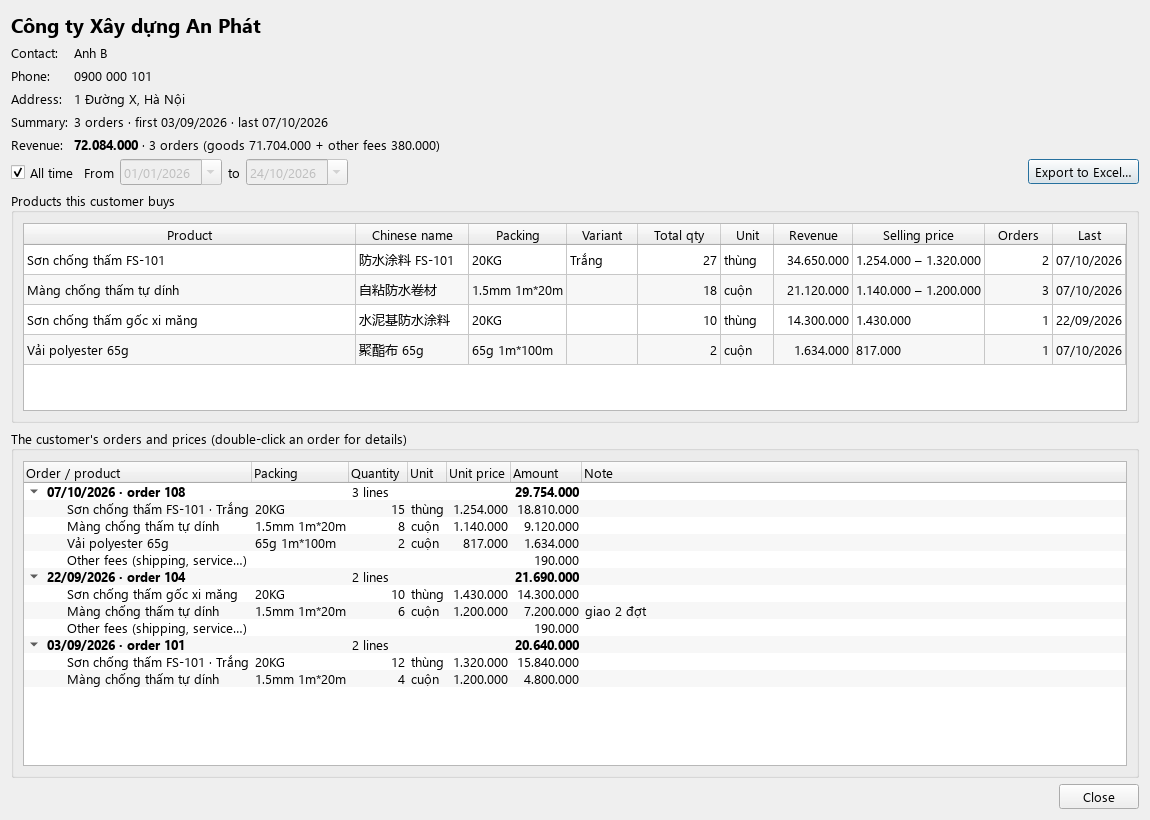
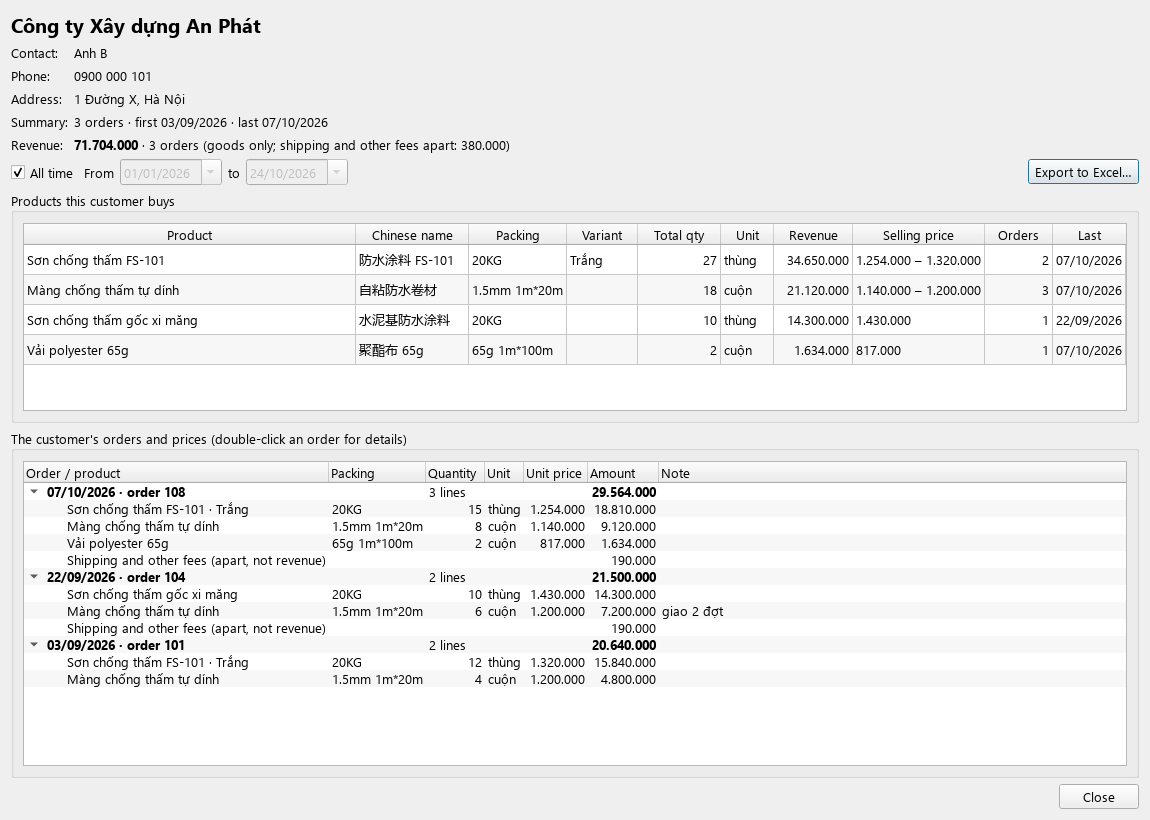
Revenue counts the goods only: shipping and other fees are shown apart (customer, statistics, Excel files, order list)

diff --git a/tests/test_locations.py b/tests/test_locations.py
@@ -257,7 +257,7 @@ def test_period_revenue_matches_the_customer_window(conn, ws):
     a, b = two_notes(conn, ws)
     start, end = date(2026, 10, 1), date(2026, 10, 31)
     m = stats.money(conn, start, end)
-    assert (m.orders, m.goods, m.fees, m.total) == (2, 5500000, 190000, 5690000)
+    assert (m.orders, m.goods, m.fees, m.total) == (2, 5500000, 190000, 5500000)  # revenue = goods; shipping apart
     cust = doc(conn, "1")["customer_id"]
     cm = queries.customer_money(conn, cust, start, end)
     assert stats.money(conn, start, end, stats.Filters(customer_ids=[cust])).total == cm["total"]
@@ -267,7 +267,7 @@ def test_period_revenue_matches_the_customer_window(conn, ws):
     assert rows == {a: 4200000, b: 1300000}
     with db.transaction(conn):
         close_document(conn, doc(conn, "2")["id"])
-    assert stats.money(conn, start, end).total == 3590000  # cancelled orders are no revenue
+    assert stats.money(conn, start, end).total == 3400000  # cancelled orders are no revenue
 
 
 def test_details_sheet_keeps_two_prices_of_one_product_on_one_note(conn, ws):
@@ -287,7 +287,7 @@ def test_statistics_file_has_money_places_and_notes(conn, ws, tmp_path):
                          set(report.SHEETS), "10/2026", "Tất cả")
     wb = openpyxl.load_workbook(path)
     text = " ".join(str(c.value) for s in wb.worksheets for row in s.iter_rows() for c in row if c.value)
-    assert "5.690.000" in text and "1 thùng hết hạn" in text and "Kho tổng" in text
+    assert "5.500.000" in text and "190.000" in text and "1 thùng hết hạn" in text and "Kho tổng" in text
     summary = wb.worksheets[0]
     head = [c.value for c in summary[6]]
     revenue = [r[head.index("Doanh thu")] for r in summary.iter_rows(min_row=7, values_only=True)]
@@ -302,8 +302,8 @@ def test_customer_file_lists_each_order_with_its_prices(conn, ws, tmp_path):
     wb = openpyxl.load_workbook(path)
     orders = [r for r in wb.worksheets[0].iter_rows(min_row=7, values_only=True)]
     assert [(r[1], r[3], r[10]) for r in orders] == [
-        ("1", "vữa chống thấm", 2100000), ("1", "chất cố định cát", 1300000), ("1", i18n.t("cust.fees"), 190000),
-        ("1", "Tổng tiền đơn", 3590000)]  # order 2 is after the period
+        ("1", "vữa chống thấm", 2100000), ("1", "chất cố định cát", 1300000), ("1", "Tiền hàng của đơn", 3400000),
+        ("1", i18n.t("cust.fees"), 190000)]  # fees apart, after the goods; order 2 is after the period
     products = list(wb.worksheets[1].iter_rows(min_row=7, values_only=True))
     assert len(products) == 2 and {p[7] for p in products} == {2100000, 1300000}
 

diff --git a/src/dibekho/core/queries.py b/src/dibekho/core/queries.py
@@ -10,7 +10,8 @@ def _iso(d: date | None) -> str | None:
 
 
 # Money of one delivery note (alias d), as correlated subqueries so joins with its lines never multiply it.
-# order total = goods (sum of line amounts) + fees; NULL when the note has no price at all.
+# order total = goods (sum of line amounts) + fees, as printed on the note; NULL when the note has no price.
+# Revenue counts the goods only: shipping and other fees are shown apart (the user's rule, 24/10/2026).
 _GOODS = "(SELECT SUM(x.amount) FROM document_lines x WHERE x.document_id = d.id)"
 _UNPRICED = "(SELECT COUNT(*) FROM document_lines x WHERE x.document_id = d.id AND x.amount IS NULL)"
 _TOTAL = f"(CASE WHEN {_GOODS} IS NULL AND d.fee_amount IS NULL THEN NULL " \
@@ -111,7 +112,7 @@ def customers(conn, text=""):
     return conn.execute(
         f"""
         SELECT c.*, COUNT(d.id) AS order_count, MIN(d.doc_date) AS first_order, MAX(d.doc_date) AS last_order,
-               SUM({_TOTAL}) AS revenue
+               SUM({_GOODS}) AS revenue
         FROM customers c
         LEFT JOIN documents d ON d.customer_id = c.id AND d.kind = 'delivery' AND d.status = 'active'
         {where}
@@ -135,13 +136,13 @@ def customer(conn, customer_id: int):
 
 
 def customer_money(conn, customer_id: int, date_from: date | None = None, date_to: date | None = None):
-    """Orders, goods, fees and total (revenue) of a customer in a period; unpriced = orders with a line
+    """Orders, goods, fees and revenue ('total' = goods only; fees apart) of a customer in a period; unpriced = orders with a line
     whose price is unknown (their known lines still count)."""
     where, args = ["d.customer_id = ?", "d.kind = 'delivery'", "d.status = 'active'"], [customer_id]
     _period(where, args, date_from, date_to)
     return conn.execute(
         f"""
-        SELECT COUNT(*) AS orders, SUM({_GOODS}) AS goods, SUM(d.fee_amount) AS fees, SUM({_TOTAL}) AS total,
+        SELECT COUNT(*) AS orders, SUM({_GOODS}) AS goods, SUM(d.fee_amount) AS fees, SUM({_GOODS}) AS total,
                SUM(CASE WHEN {_UNPRICED} > 0 THEN 1 ELSE 0 END) AS unpriced
         FROM documents d WHERE {' AND '.join(where)}
         """,

diff --git a/tests/test_prices.py b/tests/test_prices.py
@@ -69,14 +69,14 @@ def test_revenue_per_customer_products_and_period(conn, ws):
     known(conn, ws)
     cust = doc(conn, "1")["customer_id"]
     money = queries.customer_money(conn, cust)
-    assert (money["orders"], money["goods"], money["fees"], money["total"]) == (2, 5650000, 190000, 5840000)
+    assert (money["orders"], money["goods"], money["fees"], money["total"]) == (2, 5650000, 190000, 5650000)  # revenue = goods, fees apart
     paint = {p["name_vi"]: p for p in queries.customer_products(conn, cust)}["vữa chống thấm"]
     assert (paint["total_qty"], paint["revenue"], paint["min_price"], paint["max_price"]) == (6, 4350000, 700000, 750000)
     october = queries.customer_lines(conn, cust, date(2026, 10, 1), date(2026, 10, 31))
     assert [(ln["code"], ln["unit_price"], ln["amount"]) for ln in october] == [("2", 750000, 2250000)]
     assert queries.customer_money(conn, cust, date(2026, 10, 1), date(2026, 10, 31))["total"] == 2250000
     by_name = {c["name"]: c["revenue"] for c in queries.customers(conn)}
-    assert by_name == {"Công ty A": 5840000, "Công ty B": 2100000}
+    assert by_name == {"Công ty A": 5650000, "Công ty B": 2100000}
 
 
 def test_cancelled_orders_and_unknown_prices_are_not_revenue(conn, ws):
@@ -198,7 +198,7 @@ def test_customer_window_lists_orders_with_their_prices(qtbot_free_app, ws):
     known(ctx.conn, ws)
     cust = doc(ctx.conn, "1")["customer_id"]
     dlg = CustomerDialog(ctx, cust)
-    assert "5.840.000" in dlg.money.text()
+    assert "5.650.000" in dlg.money.text() and "190.000" in dlg.money.text()
     tree = dlg.orders
     assert tree.topLevelItemCount() == 2
     newest = tree.topLevelItem(0)

diff --git a/src/dibekho/excel/report.py b/src/dibekho/excel/report.py
@@ -197,16 +197,18 @@ def export_customer(path: Path, conn, customer_id: int, start: date | None, end:
                            ln["qty"], ln["unit"], ln["unit_price"], ln["amount"], ln["note"]],
                    money_cols=(10, 11), date_cols=(1,))
             r += 1
-        if d["fee_amount"]:
-            _write(ws, r, [day, d["code"], None, t("cust.fees"), None, None, None, None, None, None, d["fee_amount"]],
-                   money_cols=(11,), date_cols=(1,))
-            r += 1
         _write(ws, r, [day, d["code"], None, t("report.order_total"), None, None, None, d["total_qty"], None, None,
-                       d["order_total"]], money_cols=(11,), date_cols=(1,))
+                       d["goods_amount"]], money_cols=(11,), date_cols=(1,))
         for col in range(1, len(headers) + 1):
             ws.cell(row=r, column=col).font = _BOLD
             ws.cell(row=r, column=col).fill = _ORDER_FILL
         r += 1
+        if d["fee_amount"]:  # apart, not in the revenue
+            _write(ws, r, [day, d["code"], None, t("cust.fees"), None, None, None, None, None, None, d["fee_amount"]],
+                   money_cols=(11,), date_cols=(1,))
+            for col in range(1, len(headers) + 1):
+                ws.cell(row=r, column=col).font = Font(italic=True, color="777777")
+            r += 1
     _widths(ws, [11, 9, 9, 40, 20, 16, 14, 8, 8, 13, 15, 30])
 
     headers = [t("col.code"), t("col.product"), t("col.name_zh"), t("col.spec"), t("col.variant"), t("col.total_qty"),

diff --git a/src/dibekho/core/stats.py b/src/dibekho/core/stats.py
@@ -2,8 +2,8 @@
 
 Dates are business dates (date on the delivery note / receipt), not import time.
 Transfers between Kho tổng and Văn phòng are neither in nor out (net zero per product).
-Revenue = selling prices read from the delivery notes: goods (line amounts) per product, plus other fees per
-order (shipping...), which belong to no product. Active orders only; a line without a price counts nothing.
+Revenue = selling prices read from the delivery notes: goods (line amounts) only. Shipping and other fees per
+order are shown apart and never added (the user's rule). Active orders only; a line without a price counts nothing.
 """
 
 import calendar
@@ -170,12 +170,13 @@ class Money:
 
     @property
     def total(self) -> float:
-        return self.goods + (self.fees or 0)
+        """Revenue: the goods only, fees are apart."""
+        return self.goods
 
 
 def money(conn, start: date, end: date, filters: Filters | None = None) -> Money:
-    """Revenue of the period. With no product/group filter, goods + fees = the order totals
-    (the same as the customer window for that customer and period)."""
+    """Revenue of the period (goods; the same as the customer window for that customer and period) and the
+    fees apart (None when products or groups are filtered)."""
     f = filters or Filters()
     psql, pargs = f.product_sql()
     csql, cargs = f.customer_sql()

diff --git a/src/dibekho/ui/orders_page.py b/src/dibekho/ui/orders_page.py
@@ -79,7 +79,7 @@ class OrdersPage(Page):
         self.count = QLabel()
         self.layout_.addWidget(self.count)
         self.table = make_table([t("col.date"), t("col.doc_code"), t("col.customer"), t("col.place"),
-                                 t("col.lines"), t("col.total_qty"), t("col.order_total"), t("col.status"),
+                                 t("col.lines"), t("col.total_qty"), t("col.goods"), t("col.fees"), t("col.status"),
                                  t("col.file")], stretch=2)
         self.table.doubleClicked.connect(self.open_doc)
         self.layout_.addWidget(self.table)
@@ -121,7 +121,8 @@ class OrdersPage(Page):
             rows.append([date_item(d["doc_date"]), d["code"], d["customer_name"], _place(d),
                          num_item(d["line_count"]),
                          num_item(d["total_qty"]),
-                         money_item(d["order_total"]) if d["kind"] == "delivery" else "",
+                         money_item(d["goods_amount"]) if d["kind"] == "delivery" else "",
+                         money_item(d["fee_amount"]) if d["kind"] == "delivery" and d["fee_amount"] else "",
                          status_text(d["status"]), d["source_file"]])
             colors.append(GREY if d["status"] != "active" else None)
         fill_table(self.table, rows, ids=[d["id"] for d in docs])

diff --git a/src/dibekho/ui/details.py b/src/dibekho/ui/details.py
@@ -369,7 +369,7 @@ class CustomerDialog(_Base):
         for d in docs:
             head = QTreeWidgetItem([t("cust.order_head", date=fmt_date(d["doc_date"]), code=d["code"]), "",
                                     t("cust.order_lines", count=d["line_count"]), "", "",
-                                    fmt_money(d["order_total"]), ""])
+                                    fmt_money(d["goods_amount"]), ""])  # goods only: fees are apart
             head.setData(0, Qt.UserRole, d["id"])
             font = head.font(0)
             font.setBold(True)

diff --git a/README.vi.md b/README.vi.md
@@ -33,7 +33,7 @@ Bạn bỏ file phiếu giao hàng Excel vào một thư mục. App tự đọc 
 - 💾 **Sao lưu tự động** mỗi ngày; **chuyển dữ liệu** sang máy khác bằng một file.
 - 🌐 Giao diện **tiếng Việt, tiếng Anh, tiếng Trung**.
 
-> App đọc **giá bán** (đơn giá, thành tiền, phí vận chuyển) ghi trên phiếu giao hàng để tính doanh thu; app không có giá nhập nên không tính lãi. Dữ liệu nằm trên máy của bạn, không gửi đi đâu.
+> App đọc **giá bán** (đơn giá, thành tiền, phí vận chuyển) ghi trên phiếu giao hàng để tính doanh thu. **Doanh thu chỉ tính tiền hàng**; phí vận chuyển, phí khác được ghi riêng. App không có giá nhập nên không tính lãi. Dữ liệu nằm trên máy của bạn, không gửi đi đâu.
 
 ## Tải và cài đặt
 
@@ -158,7 +158,7 @@ Vào **Kiểm kê**, chọn ngày, gõ số đếm thực tế vào 2 cột vàn
 
 ### 5. Thống kê và xuất Excel
 
-**Tra cứu → Thống kê và xuất Excel**: chọn kỳ (ngày, tháng, quý, năm, hoặc từ ngày – đến ngày) và mặt hàng, nhóm hàng, khách cần xem. Bảng hiện tồn đầu, nhập, xuất, tồn cuối, **doanh thu** và ghi chú tồn kho, kèm mặt hàng bán chạy và biểu đồ; dòng trên bảng ghi doanh thu của kỳ = tiền hàng + phí khác. Bấm **Xuất Excel…** để lưu file vào thư mục `output/` (có cột đơn giá, thành tiền, doanh thu, nơi, ghi chú).
+**Tra cứu → Thống kê và xuất Excel**: chọn kỳ (ngày, tháng, quý, năm, hoặc từ ngày – đến ngày) và mặt hàng, nhóm hàng, khách cần xem. Bảng hiện tồn đầu, nhập, xuất, tồn cuối, **doanh thu** và ghi chú tồn kho, kèm mặt hàng bán chạy và biểu đồ; dòng trên bảng ghi doanh thu của kỳ (chỉ tiền hàng) và phí vận chuyển, phí khác tính riêng. Bấm **Xuất Excel…** để lưu file vào thư mục `output/` (có cột đơn giá, thành tiền, doanh thu, nơi, ghi chú).
 
 ### 6. Danh mục mặt hàng
 

diff --git a/README.md b/README.md
@@ -33,7 +33,7 @@ You drop Excel delivery notes into a folder. The app reads them, takes the goods
 - 💾 **Automatic daily backups**; **move all data** to another computer with one file.
 - 🌐 Interface in **Vietnamese, English and Chinese**.
 
-> The app reads the **selling prices** on the delivery notes (unit price, amount, shipping fee) to work out revenue; it has no purchase prices, so it does not compute profit. Your data stays on your computer and is never sent anywhere.
+> The app reads the **selling prices** on the delivery notes (unit price, amount, shipping fee) to work out revenue. **Revenue counts the goods only**; shipping and other fees are shown apart. It has no purchase prices, so it does not compute profit. Your data stays on your computer and is never sent anywhere.
 
 ## Download and install
 
@@ -160,7 +160,7 @@ Open **Stock count**, pick the date, type what you counted in the 2 yellow colum
 
 ### 5. Statistics and Excel export
 
-**Search → Statistics and Excel export**: choose the period (day, month, quarter, year, or from – to) and the products, categories or customers to include. The table shows opening stock, in, out, closing stock, **revenue** and the stock note, with best sellers and a chart; the line above it gives the revenue of the period = goods + other fees. Click **Export to Excel…** to save a file in `output/` (with unit price, amount, revenue, place and note columns).
+**Search → Statistics and Excel export**: choose the period (day, month, quarter, year, or from – to) and the products, categories or customers to include. The table shows opening stock, in, out, closing stock, **revenue** and the stock note, with best sellers and a chart; the line above it gives the revenue of the period (goods only) and the shipping and other fees apart. Click **Export to Excel…** to save a file in `output/` (with unit price, amount, revenue, place and note columns).
 
 ### 6. Product catalog
 

diff --git a/README.zh.md b/README.zh.md
@@ -33,7 +33,7 @@
 - 💾 **每天自动备份**；用一个文件把数据 **迁移到另一台电脑**。
 - 🌐 界面支持 **越南文、英文、中文**。
 
-> 应用会读取送货单上的 **售价**（单价、金额、运费）来计算销售额；应用没有进价，所以不计算利润。数据保存在您自己的电脑上，不会发送到任何地方。
+> 应用会读取送货单上的 **售价**（单价、金额、运费）来计算销售额。**销售额只计货款**，运费等其他费用另计。应用没有进价，所以不计算利润。数据保存在您自己的电脑上，不会发送到任何地方。
 
 ## 下载与安装
 
@@ -160,7 +160,7 @@
 
 ### 5. 统计与 Excel 导出
 
-**查询 → 统计与 Excel 导出**：选择期间（日、月、季度、年，或起止日期）以及要统计的商品、类别或客户。表格显示期初库存、入库、出库、期末库存、**销售额** 和库存备注，以及畅销商品和图表；表格上方显示该期间销售额 = 货款 + 其他费用。点击 **导出到 Excel…** 把文件保存到 `output/`（含单价、金额、销售额、存放处和备注列）。
+**查询 → 统计与 Excel 导出**：选择期间（日、月、季度、年，或起止日期）以及要统计的商品、类别或客户。表格显示期初库存、入库、出库、期末库存、**销售额** 和库存备注，以及畅销商品和图表；表格上方显示该期间销售额（只计货款）以及另计的运费等其他费用。点击 **导出到 Excel…** 把文件保存到 `output/`（含单价、金额、销售额、存放处和备注列）。
 
 ### 6. 商品目录
 
